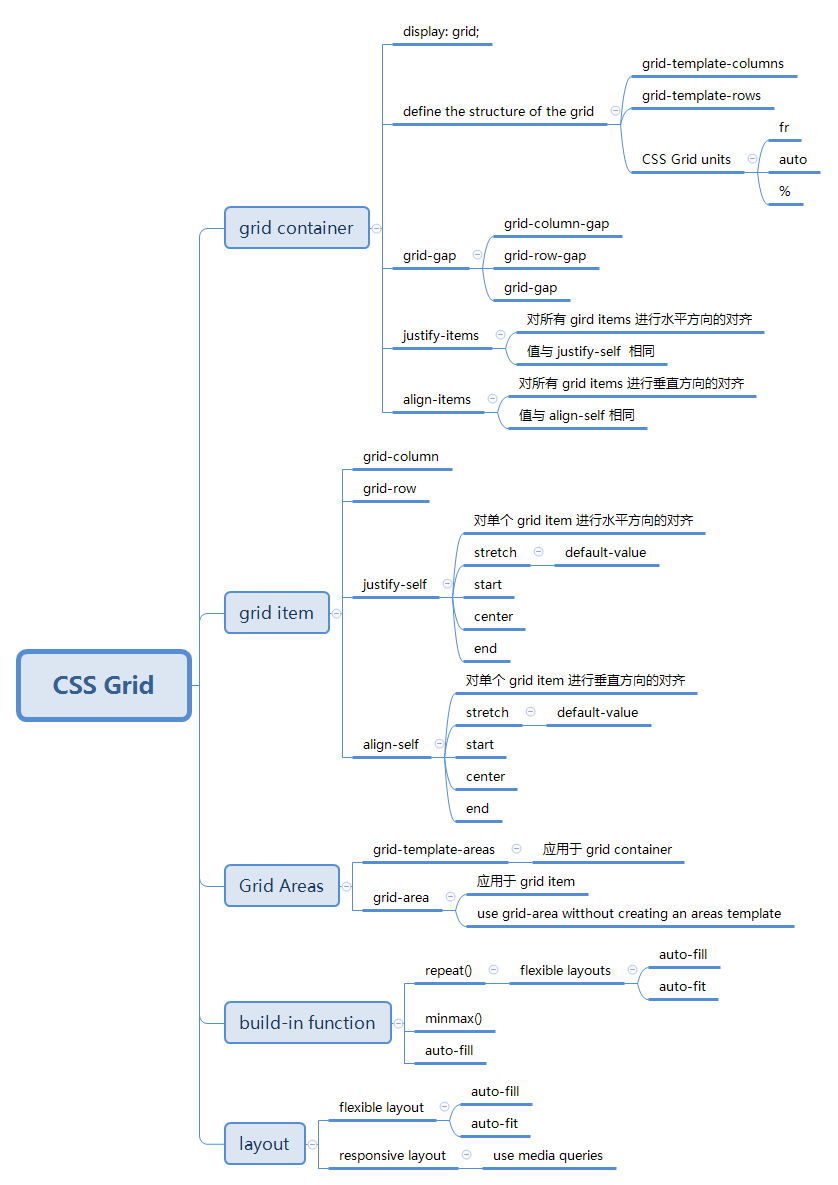
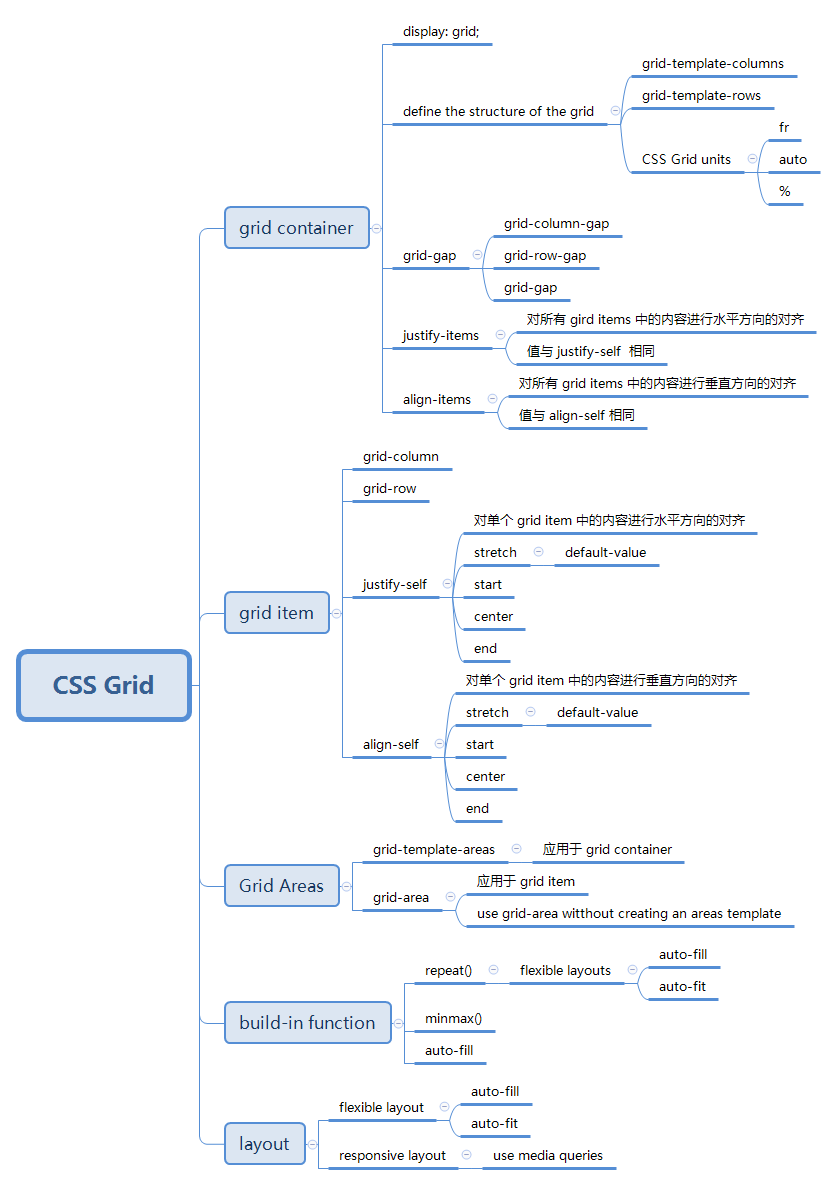
fixed
修正 CSS Grid justify-items 和 align-items错误解释

diff --git a/docs/css-grid/grid-container.md b/docs/css-grid/grid-container.md
@@ -152,7 +152,7 @@ If `grid-gap` has one value, it will create a gap between all rows and columns. 
 
 ### justify-items
 
-使用 `justify-self` 可以对单个 grid item 进行水平方向的对齐操作。如果想对所有的 grid container 中所有的 item 进行水平方向的操作，可以使用 `justify-items`，该属性接收的值与 `justify-self` 相同。
+使用 `justify-self` 可以对单个 grid item 中的内容进行水平方向的对齐操作。如果想对所有的 grid container 中所有 item 的内容进行水平方向的操作，可以使用 `justify-items`，该属性接收的值与 `justify-self` 相同。
 
 参考资料：
 
@@ -160,7 +160,7 @@ If `grid-gap` has one value, it will create a gap between all rows and columns. 
 
 ### align-items
 
-使用 `align-self` 可以对单个 grid item 进行垂直方向的对齐操作。如果想对所有的 grid container 中所有的 item 进行垂直方向的操作，可以使用 `align-items`，该属性接收的值与 `align-self` 相同。
+使用 `align-self` 可以对单个 grid item 内容进行垂直方向的对齐操作。如果想对所有的 grid container 中所有的 item 内容进行垂直方向的操作，可以使用 `align-items`，该属性接收的值与 `align-self` 相同。
 
 参考资料：
 

diff --git a/docs/applied-visual-design/mindmap.md b/docs/applied-visual-design/mindmap.md
@@ -1,6 +1,6 @@
 ---
 id: mindmap
-title: Applied Visual Design
+title: Applied Visual Design 知识点
 ---
 
 ![Applied Visual Design](../assets/Applied-Visual-Design.png)
